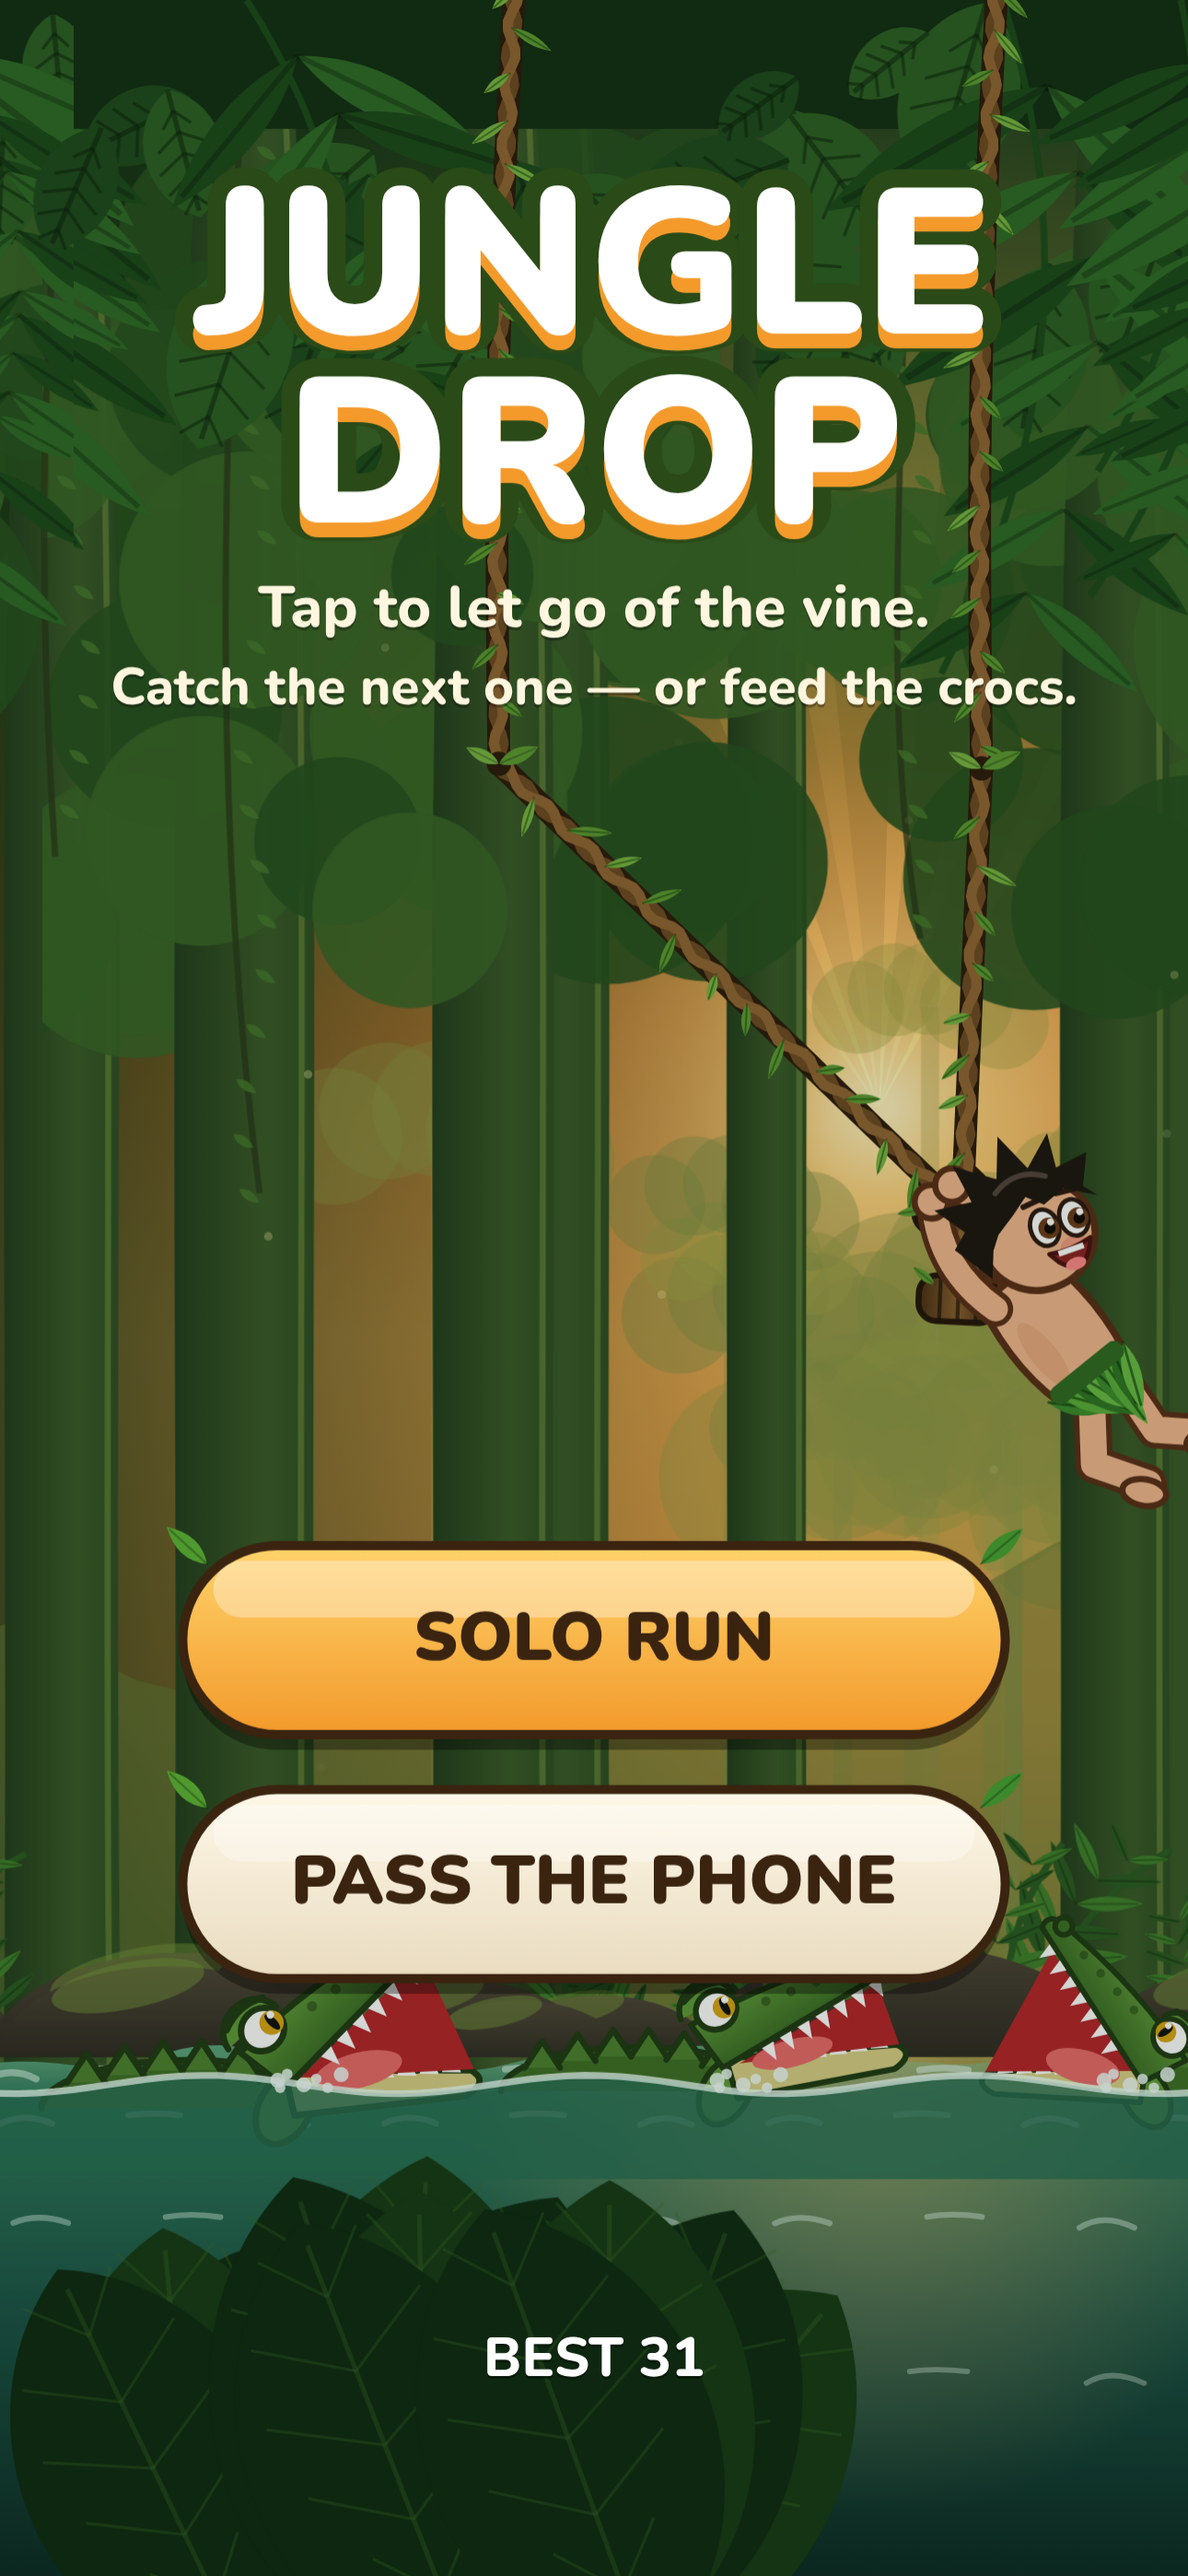
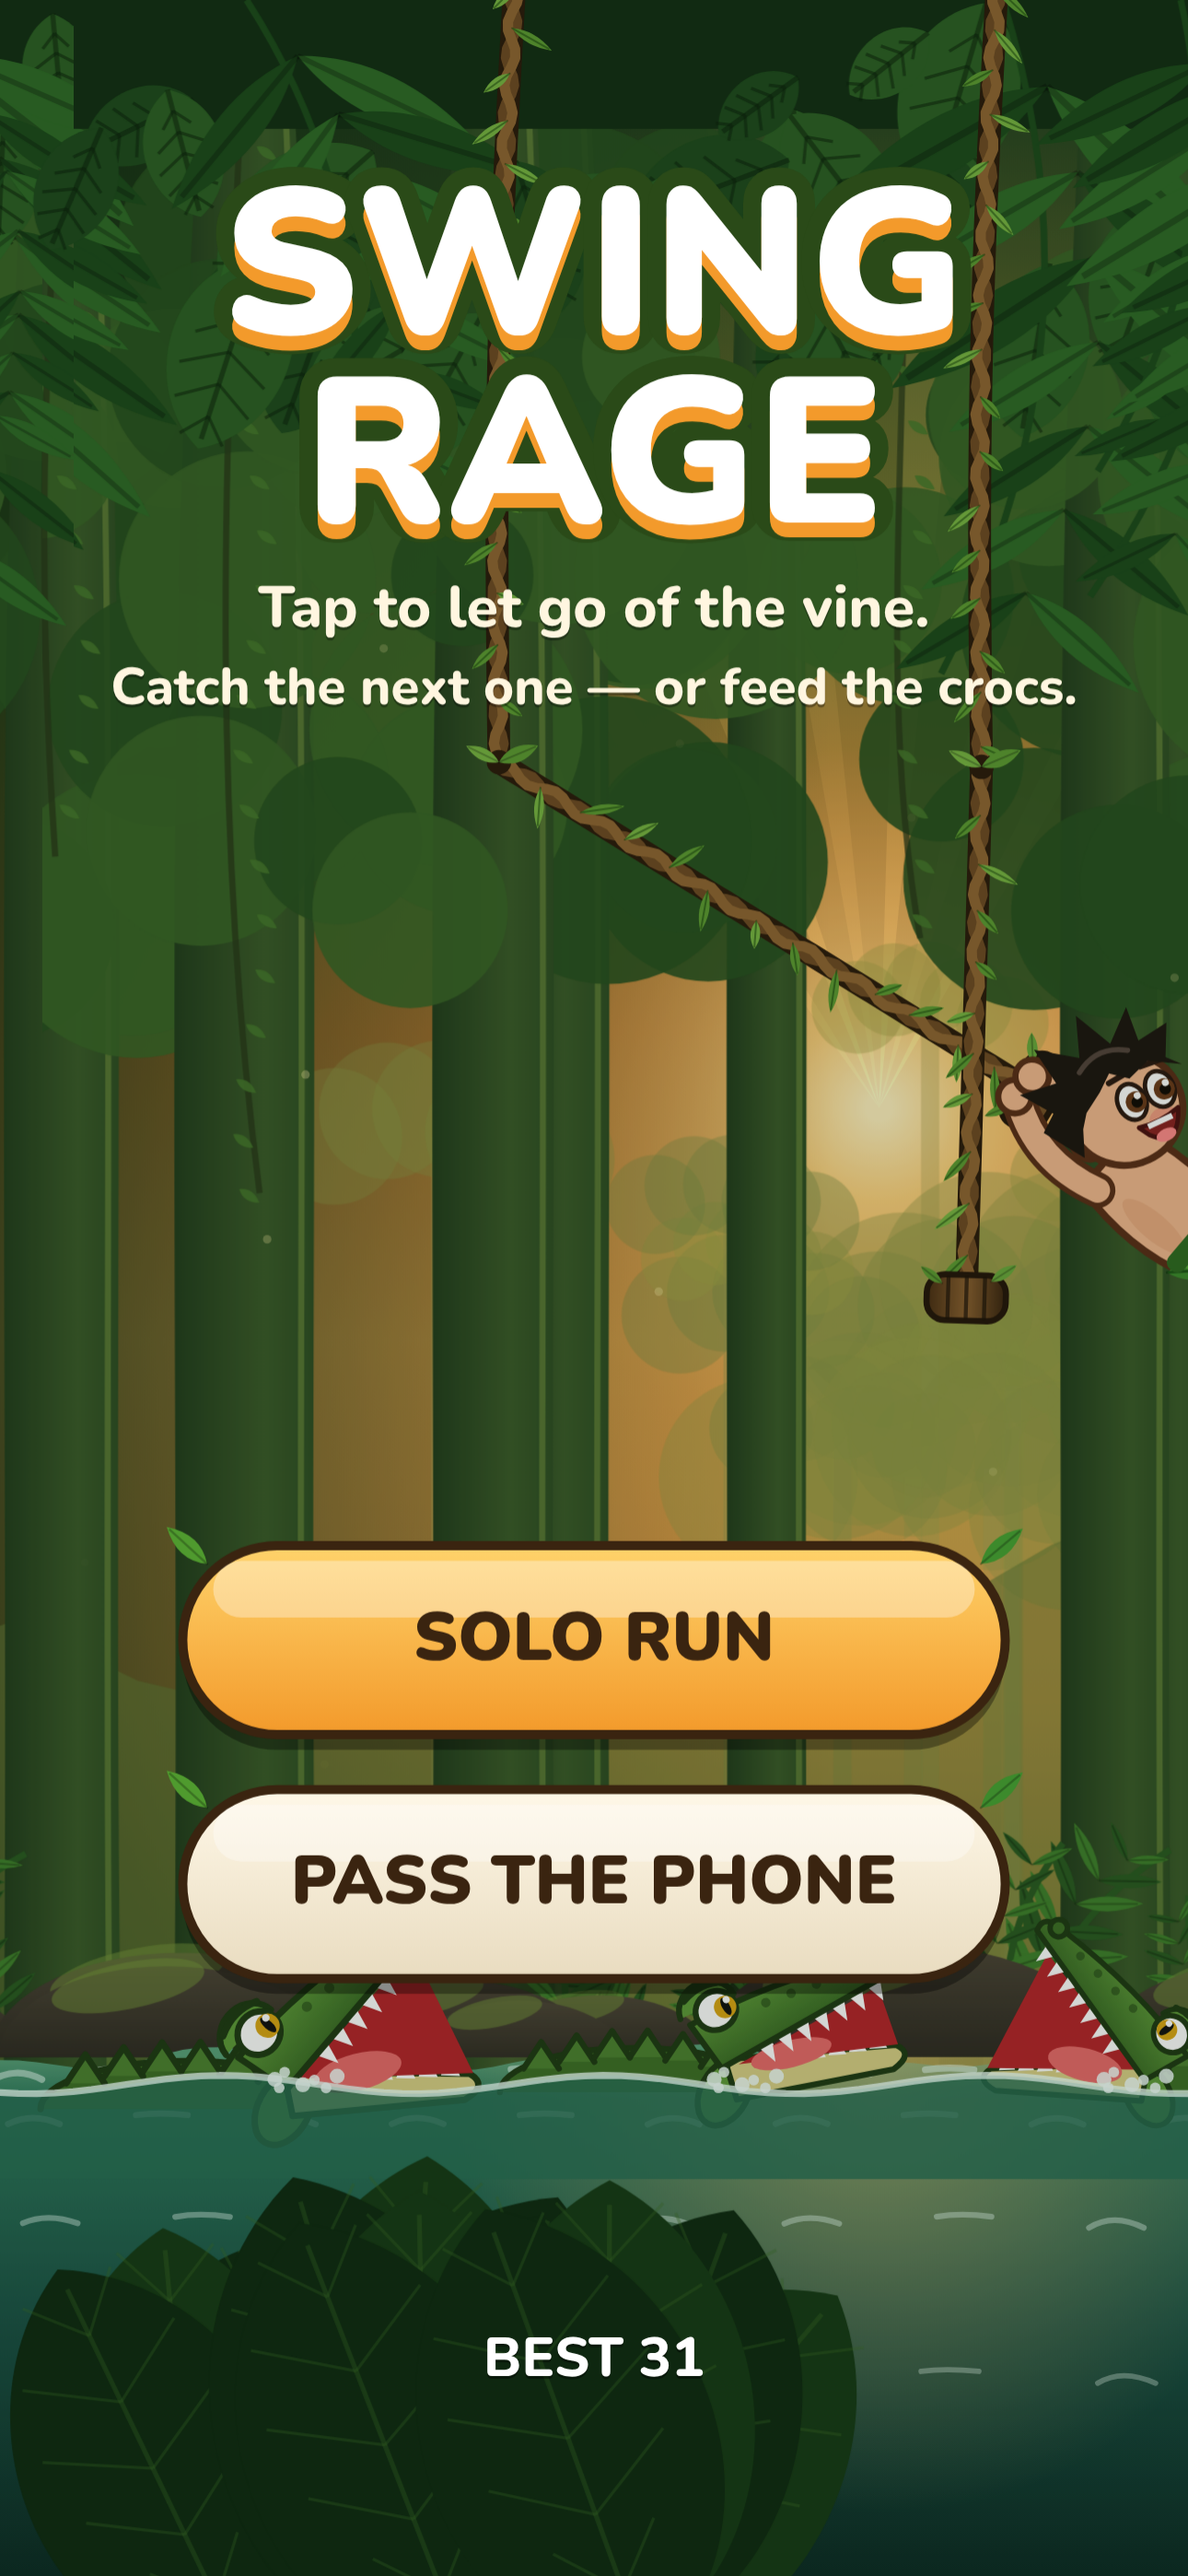
Rename the game to Swing Rage (App Store display name).
Jungle Drop was taken. Bundle ID no.samm.letgo is unchanged.
iOS build number bumped to 3. Title screenshots and GitHub Pages updated.

diff --git a/docs/main.js b/docs/main.js
@@ -265,8 +265,8 @@ function drawUI() {
   if (state === 'menu') {
     c.fillStyle = 'rgba(10,25,10,0.18)'; c.fillRect(0, 0, W, H);
     const ty = H * 0.11 + ST * 0.5;
-    txt('JUNGLE', W / 2, ty, 68, '#fff', { stroke: '#2a4a18', sw: 12, shadowColor: '#f39a2b', sy: 5 });
-    txt('DROP', W / 2, ty + 62, 68, '#fff', { stroke: '#2a4a18', sw: 12, shadowColor: '#f39a2b', sy: 5 });
+    txt('SWING', W / 2, ty, 68, '#fff', { stroke: '#2a4a18', sw: 12, shadowColor: '#f39a2b', sy: 5 });
+    txt('RAGE', W / 2, ty + 62, 68, '#fff', { stroke: '#2a4a18', sw: 12, shadowColor: '#f39a2b', sy: 5 });
     txt('Tap to let go of the vine.', W / 2, ty + 62 + 46, 19, '#fff6e0', { weight: 800 });
     txt('Catch the next one — or feed the crocs.', W / 2, ty + 62 + 72, 17, '#fff6e0', { weight: 800 });
     button('SOLO RUN', 60, H * 0.6, W - 120, 62, startSolo, 'gold');
@@ -325,23 +325,23 @@ function toMenu() { state = 'menu'; mode = 'solo'; versus = null; menuSim(); }
 
 async function share() {
   const n = sim.score;
-  const text = `I made it ${n} ${n === 1 ? 'vine' : 'vines'} in JUNGLE DROP before the crocs got me. Beat that 🐊🌴`;
+  const text = `I made it ${n} ${n === 1 ? 'vine' : 'vines'} in SWING RAGE before the crocs got me. Beat that 🐊🌴`;
   const url = isNative ? PUBLIC_URL : location.href.split('?')[0];
   try {
     const sc = document.createElement('canvas'); sc.width = 1080; sc.height = 1350; const s = sc.getContext('2d');
     s.drawImage(cv, 0, 0, cv.width, cv.width * 1.25, 0, 0, 1080, 1350);
     s.fillStyle = 'rgba(8,20,10,0.55)'; s.fillRect(0, 0, 1080, 1350);
-    s.textAlign = 'center'; s.fillStyle = '#fff'; s.font = `900 120px ${A.FONT}`; s.fillText('JUNGLE DROP', 540, 230);
+    s.textAlign = 'center'; s.fillStyle = '#fff'; s.font = `900 120px ${A.FONT}`; s.fillText('SWING RAGE', 540, 230);
     s.font = `800 64px ${A.FONT}`; s.fillText('I made it', 540, 520);
     s.fillStyle = '#ffd36b'; s.font = `900 330px ${A.FONT}`; s.fillText(String(n), 540, 860);
     s.fillStyle = '#fff'; s.font = `800 72px ${A.FONT}`; s.fillText(n === 1 ? 'vine' : 'vines', 540, 980);
     s.font = `800 44px ${A.FONT}`; s.fillText(url.replace(/^https?:\/\//, ''), 540, 1250);
     const blob = await new Promise(r => sc.toBlob(r, 'image/png'));
-    const file = new File([blob], 'jungle-drop.png', { type: 'image/png' });
+    const file = new File([blob], 'swing-rage.png', { type: 'image/png' });
     if (isNative) return await nativeShare(text + ' ' + url, blob);
     if (navigator.canShare && navigator.canShare({ files: [file] })) return await navigator.share({ files: [file], text, url });
     if (navigator.share) return await navigator.share({ text, url });
-    const a = document.createElement('a'); a.href = URL.createObjectURL(blob); a.download = 'jungle-drop.png'; a.click();
+    const a = document.createElement('a'); a.href = URL.createObjectURL(blob); a.download = 'swing-rage.png'; a.click();
   } catch (e) { try { await navigator.clipboard.writeText(text + ' ' + url); } catch (_) {} }
 }
 

diff --git a/src/main.js b/src/main.js
@@ -265,8 +265,8 @@ function drawUI() {
   if (state === 'menu') {
     c.fillStyle = 'rgba(10,25,10,0.18)'; c.fillRect(0, 0, W, H);
     const ty = H * 0.11 + ST * 0.5;
-    txt('JUNGLE', W / 2, ty, 68, '#fff', { stroke: '#2a4a18', sw: 12, shadowColor: '#f39a2b', sy: 5 });
-    txt('DROP', W / 2, ty + 62, 68, '#fff', { stroke: '#2a4a18', sw: 12, shadowColor: '#f39a2b', sy: 5 });
+    txt('SWING', W / 2, ty, 68, '#fff', { stroke: '#2a4a18', sw: 12, shadowColor: '#f39a2b', sy: 5 });
+    txt('RAGE', W / 2, ty + 62, 68, '#fff', { stroke: '#2a4a18', sw: 12, shadowColor: '#f39a2b', sy: 5 });
     txt('Tap to let go of the vine.', W / 2, ty + 62 + 46, 19, '#fff6e0', { weight: 800 });
     txt('Catch the next one — or feed the crocs.', W / 2, ty + 62 + 72, 17, '#fff6e0', { weight: 800 });
     button('SOLO RUN', 60, H * 0.6, W - 120, 62, startSolo, 'gold');
@@ -325,23 +325,23 @@ function toMenu() { state = 'menu'; mode = 'solo'; versus = null; menuSim(); }
 
 async function share() {
   const n = sim.score;
-  const text = `I made it ${n} ${n === 1 ? 'vine' : 'vines'} in JUNGLE DROP before the crocs got me. Beat that 🐊🌴`;
+  const text = `I made it ${n} ${n === 1 ? 'vine' : 'vines'} in SWING RAGE before the crocs got me. Beat that 🐊🌴`;
   const url = isNative ? PUBLIC_URL : location.href.split('?')[0];
   try {
     const sc = document.createElement('canvas'); sc.width = 1080; sc.height = 1350; const s = sc.getContext('2d');
     s.drawImage(cv, 0, 0, cv.width, cv.width * 1.25, 0, 0, 1080, 1350);
     s.fillStyle = 'rgba(8,20,10,0.55)'; s.fillRect(0, 0, 1080, 1350);
-    s.textAlign = 'center'; s.fillStyle = '#fff'; s.font = `900 120px ${A.FONT}`; s.fillText('JUNGLE DROP', 540, 230);
+    s.textAlign = 'center'; s.fillStyle = '#fff'; s.font = `900 120px ${A.FONT}`; s.fillText('SWING RAGE', 540, 230);
     s.font = `800 64px ${A.FONT}`; s.fillText('I made it', 540, 520);
     s.fillStyle = '#ffd36b'; s.font = `900 330px ${A.FONT}`; s.fillText(String(n), 540, 860);
     s.fillStyle = '#fff'; s.font = `800 72px ${A.FONT}`; s.fillText(n === 1 ? 'vine' : 'vines', 540, 980);
     s.font = `800 44px ${A.FONT}`; s.fillText(url.replace(/^https?:\/\//, ''), 540, 1250);
     const blob = await new Promise(r => sc.toBlob(r, 'image/png'));
-    const file = new File([blob], 'jungle-drop.png', { type: 'image/png' });
+    const file = new File([blob], 'swing-rage.png', { type: 'image/png' });
     if (isNative) return await nativeShare(text + ' ' + url, blob);
     if (navigator.canShare && navigator.canShare({ files: [file] })) return await navigator.share({ files: [file], text, url });
     if (navigator.share) return await navigator.share({ text, url });
-    const a = document.createElement('a'); a.href = URL.createObjectURL(blob); a.download = 'jungle-drop.png'; a.click();
+    const a = document.createElement('a'); a.href = URL.createObjectURL(blob); a.download = 'swing-rage.png'; a.click();
   } catch (e) { try { await navigator.clipboard.writeText(text + ' ' + url); } catch (_) {} }
 }
 

diff --git a/docs/privacy.html b/docs/privacy.html
@@ -1,12 +1,12 @@
 <!doctype html>
 <html lang="en"><head><meta charset="utf-8"><meta name="viewport" content="width=device-width,initial-scale=1">
-<title>Jungle Drop — Privacy Policy</title>
+<title>Swing Rage — Privacy Policy</title>
 <style>body{font:16px/1.6 -apple-system,system-ui,sans-serif;max-width:720px;margin:0 auto;padding:28px 20px 60px;color:#1d2a1b;background:#fbf8f0}h1{font-size:28px;margin:0 0 4px}h2{font-size:19px;margin-top:28px}small{color:#667}a{color:#2d6a2a}</style>
 </head><body>
-<h1>Jungle Drop — Privacy Policy</h1>
+<h1>Swing Rage — Privacy Policy</h1>
 <small>Last updated: 25 November 2026</small>
 
-<p>Jungle Drop is a one-tap game by Salambek Abubakarov (Norway). This policy explains what happens with data when you play the iOS app or the web version at salambek92-bit.github.io/let-go.</p>
+<p>Swing Rage is a one-tap game by Salambek Abubakarov (Norway). This policy explains what happens with data when you play the iOS app or the web version at salambek92-bit.github.io/let-go.</p>
 
 <h2>What the game itself collects</h2>
 <p>Nothing. There are no accounts, no sign-in, and we run no servers or analytics. Your best score is stored only on your own device and is deleted when you delete the app.</p>
@@ -28,7 +28,7 @@
 </ul>
 
 <h2>Children</h2>
-<p>Jungle Drop is not directed at children under 13 and we do not knowingly collect personal data from children.</p>
+<p>Swing Rage is not directed at children under 13 and we do not knowingly collect personal data from children.</p>
 
 <h2>Sharing</h2>
 <p>The Share button opens the iOS share sheet with a picture of your score. Nothing is sent anywhere unless you choose an app to share with.</p>

diff --git a/src/privacy.html b/src/privacy.html
@@ -1,12 +1,12 @@
 <!doctype html>
 <html lang="en"><head><meta charset="utf-8"><meta name="viewport" content="width=device-width,initial-scale=1">
-<title>Jungle Drop — Privacy Policy</title>
+<title>Swing Rage — Privacy Policy</title>
 <style>body{font:16px/1.6 -apple-system,system-ui,sans-serif;max-width:720px;margin:0 auto;padding:28px 20px 60px;color:#1d2a1b;background:#fbf8f0}h1{font-size:28px;margin:0 0 4px}h2{font-size:19px;margin-top:28px}small{color:#667}a{color:#2d6a2a}</style>
 </head><body>
-<h1>Jungle Drop — Privacy Policy</h1>
+<h1>Swing Rage — Privacy Policy</h1>
 <small>Last updated: 25 November 2026</small>
 
-<p>Jungle Drop is a one-tap game by Salambek Abubakarov (Norway). This policy explains what happens with data when you play the iOS app or the web version at salambek92-bit.github.io/let-go.</p>
+<p>Swing Rage is a one-tap game by Salambek Abubakarov (Norway). This policy explains what happens with data when you play the iOS app or the web version at salambek92-bit.github.io/let-go.</p>
 
 <h2>What the game itself collects</h2>
 <p>Nothing. There are no accounts, no sign-in, and we run no servers or analytics. Your best score is stored only on your own device and is deleted when you delete the app.</p>
@@ -28,7 +28,7 @@
 </ul>
 
 <h2>Children</h2>
-<p>Jungle Drop is not directed at children under 13 and we do not knowingly collect personal data from children.</p>
+<p>Swing Rage is not directed at children under 13 and we do not knowingly collect personal data from children.</p>
 
 <h2>Sharing</h2>
 <p>The Share button opens the iOS share sheet with a picture of your score. Nothing is sent anywhere unless you choose an app to share with.</p>

diff --git a/docs/support.html b/docs/support.html
@@ -1,9 +1,9 @@
 <!doctype html>
 <html lang="en"><head><meta charset="utf-8"><meta name="viewport" content="width=device-width,initial-scale=1">
-<title>Jungle Drop — Support</title>
+<title>Swing Rage — Support</title>
 <style>body{font:16px/1.6 -apple-system,system-ui,sans-serif;max-width:720px;margin:0 auto;padding:28px 20px 60px;color:#1d2a1b;background:#fbf8f0}a{color:#2d6a2a}</style>
 </head><body>
-<h1>Jungle Drop — Support</h1>
+<h1>Swing Rage — Support</h1>
 <p><b>How to play:</b> you hang on a swinging vine. Tap to let go. If your hands hit the next vine you grab it automatically. Hang too long and the vine snaps. Miss, and the crocodiles win. Score = vines caught.</p>
 <p><b>Pass the phone:</b> two players get the exact same jungle, one after the other. Most vines wins.</p>
 <p><b>Ads:</b> the iOS app shows one full-screen ad after every third game, never during a swing.</p>

diff --git a/src/support.html b/src/support.html
@@ -1,9 +1,9 @@
 <!doctype html>
 <html lang="en"><head><meta charset="utf-8"><meta name="viewport" content="width=device-width,initial-scale=1">
-<title>Jungle Drop — Support</title>
+<title>Swing Rage — Support</title>
 <style>body{font:16px/1.6 -apple-system,system-ui,sans-serif;max-width:720px;margin:0 auto;padding:28px 20px 60px;color:#1d2a1b;background:#fbf8f0}a{color:#2d6a2a}</style>
 </head><body>
-<h1>Jungle Drop — Support</h1>
+<h1>Swing Rage — Support</h1>
 <p><b>How to play:</b> you hang on a swinging vine. Tap to let go. If your hands hit the next vine you grab it automatically. Hang too long and the vine snaps. Miss, and the crocodiles win. Score = vines caught.</p>
 <p><b>Pass the phone:</b> two players get the exact same jungle, one after the other. Most vines wins.</p>
 <p><b>Ads:</b> the iOS app shows one full-screen ad after every third game, never during a swing.</p>

diff --git a/docs/native.js b/docs/native.js
@@ -29,7 +29,7 @@ export async function nativeShare(text, blob) {
     const fs = P('Filesystem');
     if (blob && fs) {
       const data = await new Promise((r) => { const fr = new FileReader(); fr.onload = () => r(String(fr.result).split(',')[1]); fr.readAsDataURL(blob); });
-      const w = await fs.writeFile({ path: 'jungle-drop.png', data, directory: 'CACHE' });
+      const w = await fs.writeFile({ path: 'swing-rage.png', data, directory: 'CACHE' });
       files = [w.uri];
     }
     await s.share(files ? { text, files } : { text, url: PUBLIC_URL });

diff --git a/src/native.js b/src/native.js
@@ -29,7 +29,7 @@ export async function nativeShare(text, blob) {
     const fs = P('Filesystem');
     if (blob && fs) {
       const data = await new Promise((r) => { const fr = new FileReader(); fr.onload = () => r(String(fr.result).split(',')[1]); fr.readAsDataURL(blob); });
-      const w = await fs.writeFile({ path: 'jungle-drop.png', data, directory: 'CACHE' });
+      const w = await fs.writeFile({ path: 'swing-rage.png', data, directory: 'CACHE' });
       files = [w.uri];
     }
     await s.share(files ? { text, files } : { text, url: PUBLIC_URL });

diff --git a/docs/index.html b/docs/index.html
@@ -7,7 +7,7 @@
 <meta name="mobile-web-app-capable" content="yes">
 <meta name="apple-mobile-web-app-status-bar-style" content="black-translucent">
 <meta name="theme-color" content="#1b3a1f">
-<title>Jungle Drop — one tap jungle rage</title>
+<title>Swing Rage — one tap jungle rage</title>
 <meta name="description" content="Tap to let go of the vine. Catch the next one, or feed the crocodiles.">
 <link rel="icon" href="icon.svg" type="image/svg+xml">
 <link rel="apple-touch-icon" href="icon.svg">

diff --git a/src/index.html b/src/index.html
@@ -7,7 +7,7 @@
 <meta name="mobile-web-app-capable" content="yes">
 <meta name="apple-mobile-web-app-status-bar-style" content="black-translucent">
 <meta name="theme-color" content="#1b3a1f">
-<title>Jungle Drop — one tap jungle rage</title>
+<title>Swing Rage — one tap jungle rage</title>
 <meta name="description" content="Tap to let go of the vine. Catch the next one, or feed the crocodiles.">
 <link rel="icon" href="icon.svg" type="image/svg+xml">
 <link rel="apple-touch-icon" href="icon.svg">

diff --git a/docs/art.js b/docs/art.js
@@ -1,4 +1,4 @@
-// Jungle Drop — all art drawn in code (crisp at any DPR).
+// Swing Rage — all art drawn in code (crisp at any DPR).
 export const FONT = '"SF Pro Rounded","Arial Rounded MT Bold",ui-rounded,"Nunito","Baloo 2","Trebuchet MS",system-ui,sans-serif';
 
 export function mulberry(a) { return () => { a |= 0; a = (a + 0x6d2b79f5) | 0; let t = Math.imul(a ^ (a >>> 15), 1 | a); t = (t + Math.imul(t ^ (t >>> 7), 61 | t)) ^ t; return ((t ^ (t >>> 14)) >>> 0) / 4294967296; }; }

diff --git a/src/art.js b/src/art.js
@@ -1,4 +1,4 @@
-// Jungle Drop — all art drawn in code (crisp at any DPR).
+// Swing Rage — all art drawn in code (crisp at any DPR).
 export const FONT = '"SF Pro Rounded","Arial Rounded MT Bold",ui-rounded,"Nunito","Baloo 2","Trebuchet MS",system-ui,sans-serif';
 
 export function mulberry(a) { return () => { a |= 0; a = (a + 0x6d2b79f5) | 0; let t = Math.imul(a ^ (a >>> 15), 1 | a); t = (t + Math.imul(t ^ (t >>> 7), 61 | t)) ^ t; return ((t ^ (t >>> 14)) >>> 0) / 4294967296; }; }
